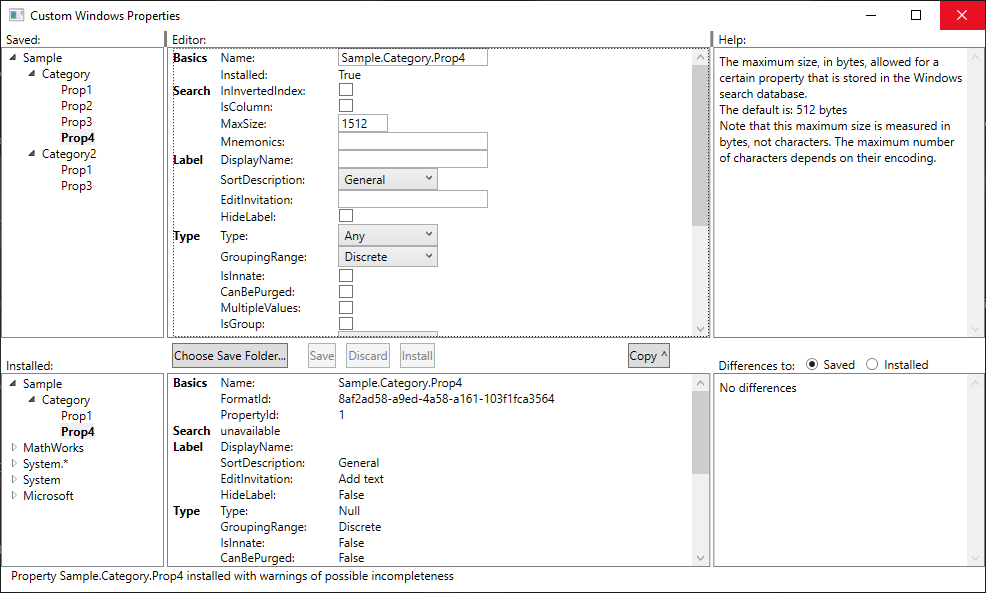
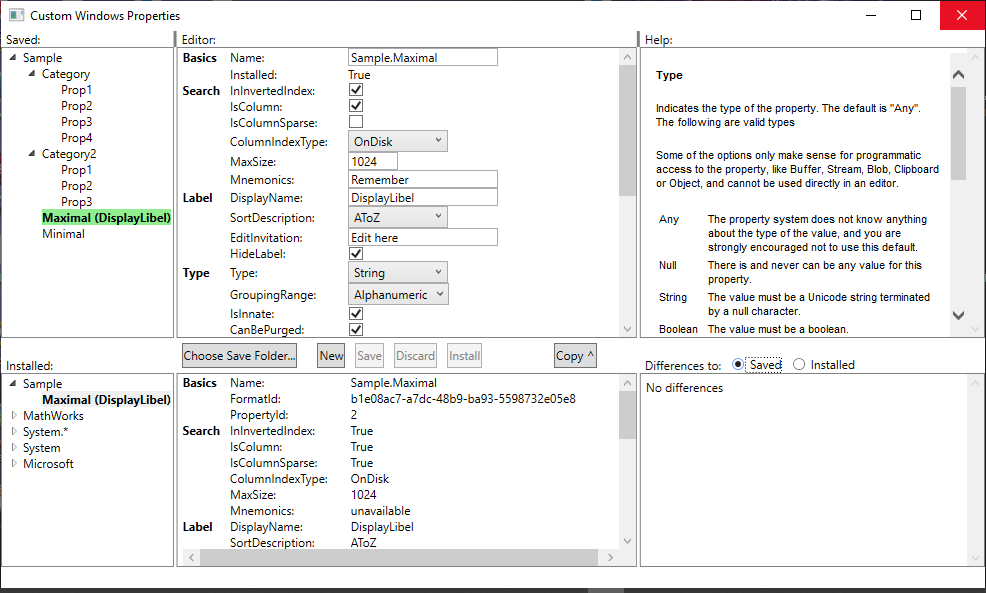
Bugs fixed: - proof read readme and fixed various problems with it - adding a child to a property which was already a parent crashes the program - comparison to installed incorrectly compared Edit Control and SearchRawValue even though they are unavailable - SearchRawValue not added to propdesc even
Enhancement:
- added a New button

diff --git a/MainWindow.xaml b/MainWindow.xaml
@@ -333,6 +333,8 @@
         </StackPanel>-->
         <StackPanel Grid.Row="2" Grid.Column="2" Margin="0,5,0,5" Orientation="Horizontal">
             <Button Content="Choose Save Folder..." Margin="5,0,10,0" Height="25" Click="ChooseDataFolder_Clicked"/>
+            <Button Content="New" Margin="10,0,0,0" Height="25" 
+                    Click="New_Clicked"/>
             <Button Content="Save" Margin="10,0,0,0" Height="25" 
                     IsEnabled="{Binding CanInstall}" Click="Save_Clicked"/>
             <Button Content="Discard" Margin="10,0,0,0" Height="25" 

diff --git a/PropertyConfig.cs b/PropertyConfig.cs
@@ -534,23 +534,19 @@ namespace CustomWindowsProperties
             desc.SetAttribute("formatID", FormatId.ToString("B").ToUpper());
             desc.SetAttribute("propID", PropertyId.ToString());
 
-            // Unfortunately, we have no search information for system properties
-            if (!IsSystemProperty)
+            var search = doc.CreateElement("searchInfo");
+            search.SetAttribute("inInvertedIndex", InInvertedIndex.ToString());
+            if (IsColumn)
             {
-                var search = doc.CreateElement("searchInfo");
-                search.SetAttribute("inInvertedIndex", InInvertedIndex.ToString());
-                if (IsColumn)
-                {
-                    search.SetAttribute("isColumn", IsColumn.ToString());
-                    search.SetAttribute("isColumnSparse", IsColumnSparse.ToString());
-                    search.SetAttribute("columnIndexType", ColumnIndexType.ToString());
-                }
-                if (MaxSize != 512)
-                    search.SetAttribute("maxSize", MaxSize.ToString());
-                if (Mnemonics != null && Mnemonics.Length > 0)
-                    search.SetAttribute("mnemonics", Mnemonics);
-                desc.AppendChild(search);
+                search.SetAttribute("isColumn", IsColumn.ToString());
+                search.SetAttribute("isColumnSparse", IsColumnSparse.ToString());
+                search.SetAttribute("columnIndexType", ColumnIndexType.ToString());
             }
+            if (MaxSize != 512)
+                search.SetAttribute("maxSize", MaxSize.ToString());
+            if (Mnemonics != null && Mnemonics.Length > 0)
+                search.SetAttribute("mnemonics", Mnemonics);
+            desc.AppendChild(search);
 
             var label = doc.CreateElement("labelInfo");
             label.SetAttribute("label", DisplayName);
@@ -579,8 +575,8 @@ namespace CustomWindowsProperties
                 type.SetAttribute("isTreeProperty", IsTreeProperty.ToString());
             if (IsViewable)
                 type.SetAttribute("isViewable", IsViewable.ToString());
-            //if (SearchRawValue)
-            //    type.SetAttribute("searchRawValue", SearchRawValue.ToString());
+            if (SearchRawValue)
+                type.SetAttribute("searchRawValue", SearchRawValue.ToString());
             if (ConditionType != PropertyConditionType.String)
                 type.SetAttribute("conditionType", ConditionType.ToString());
             if (ConditionOperation != PropertyConditionOperation.Equal)
@@ -753,7 +749,8 @@ namespace CustomWindowsProperties
             if (AggregationType != baseline.AggregationType) result.Add(new Difference(nameof(AggregationType), AggregationType, baseline.AggregationType));
             if (IsTreeProperty != baseline.IsTreeProperty) result.Add(new Difference(nameof(IsTreeProperty), IsTreeProperty, baseline.IsTreeProperty));
             if (IsViewable != baseline.IsViewable) result.Add(new Difference(nameof(IsViewable), IsViewable, baseline.IsViewable));
-            if (SearchRawValue != baseline.SearchRawValue) result.Add(new Difference(nameof(SearchRawValue), SearchRawValue, baseline.SearchRawValue));
+            if (!isInstalled)
+                if (SearchRawValue != baseline.SearchRawValue) result.Add(new Difference(nameof(SearchRawValue), SearchRawValue, baseline.SearchRawValue));
             if (ConditionType != baseline.ConditionType) result.Add(new Difference(nameof(ConditionType), ConditionType, baseline.ConditionType));
             if (ConditionOperation != baseline.ConditionOperation) result.Add(new Difference(nameof(ConditionOperation), ConditionOperation, baseline.ConditionOperation));
 
@@ -770,7 +767,8 @@ namespace CustomWindowsProperties
             if (Alignment != baseline.Alignment) result.Add(new Difference(nameof(Alignment), Alignment, baseline.Alignment));
             //if (RelativeDescriptionType != baseline.RelativeDescriptionType) result.Add(new Difference(nameof(RelativeDescriptionType), RelativeDescriptionType, baseline.RelativeDescriptionType));
             if (DefaultSortDirection != baseline.DefaultSortDirection) result.Add(new Difference(nameof(DefaultSortDirection), DefaultSortDirection, baseline.DefaultSortDirection));
-            if (EditControl != baseline.EditControl) result.Add(new Difference(nameof(EditControl), EditControl, baseline.EditControl));
+            if (!isInstalled)
+                if (EditControl != baseline.EditControl) result.Add(new Difference(nameof(EditControl), EditControl, baseline.EditControl));
             return result;
         }
 

diff --git a/MainView.cs b/MainView.cs
@@ -287,6 +287,13 @@ namespace CustomWindowsProperties
             RefreshEditorStatus();
         }
 
+        public void NewEditorProperty()
+        {
+            EditorBaseline = new PropertyConfig();
+            EditorBaseline.SetDefaultValues();
+            LoadEditorConfig(EditorBaseline, BaselineType.Standalone);
+        }
+
         public void DiscardEditorChanges()
         {
             LoadEditorConfig(EditorBaseline, EditorBaselineType, true);
@@ -543,11 +550,12 @@ namespace CustomWindowsProperties
             var parentName = PropertyTree.FirstPartsOf(config.CanonicalName);
             if (parentName != null && dictSavedTree.TryGetValue(parentName, out TreeItem parent))
             {
-                if (parent.Children.Count != 0)
+                var siblingConfigs = parent.Children.Select(c => c.Item).OfType<PropertyConfig>()
+                                           .Where(p => p != null).ToList();
+                if (siblingConfigs.Count > 0)
                 {
-                    config.FormatId = (parent.Children[0].Item as PropertyConfig).FormatId;
-                    config.PropertyId = parent.Children.Select(t => t.Item).Cast<PropertyConfig>()
-                        .Select(p => p?.PropertyId).Max() + 1;
+                    config.FormatId = siblingConfigs[0].FormatId;
+                    config.PropertyId = siblingConfigs.Select(p => p?.PropertyId).Max() + 1;
                     return;
                 }
             }

diff --git a/MainWindow.xaml.cs b/MainWindow.xaml.cs
@@ -73,6 +73,11 @@ namespace CustomWindowsProperties
                 DisplayStatus($"Data folder is now {state.DataFolder}");
         }
 
+        private void New_Clicked(object sender, RoutedEventArgs e)
+        {
+            view.NewEditorProperty();
+        }
+
         private void Save_Clicked(object sender, RoutedEventArgs e)
         {
             try
